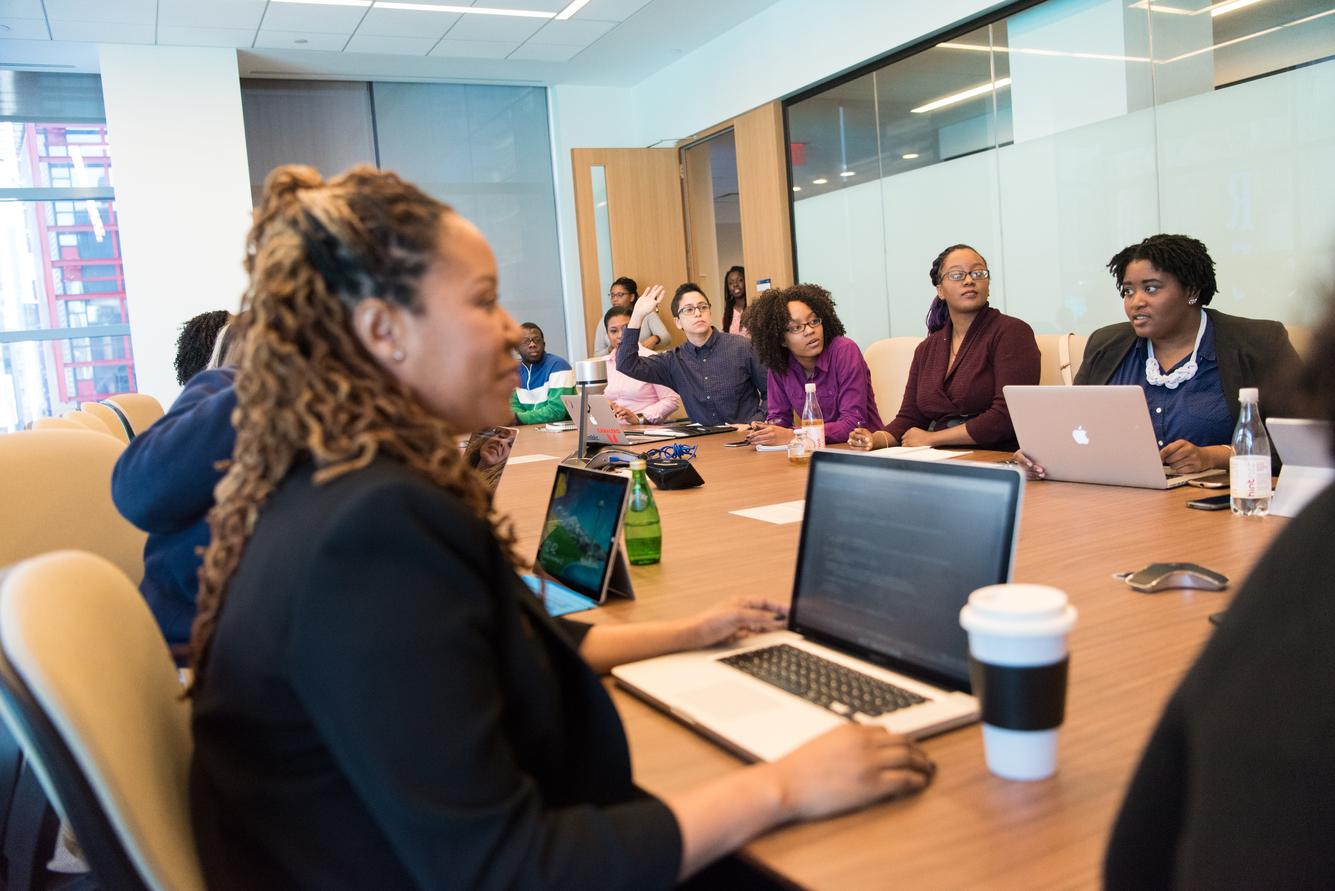
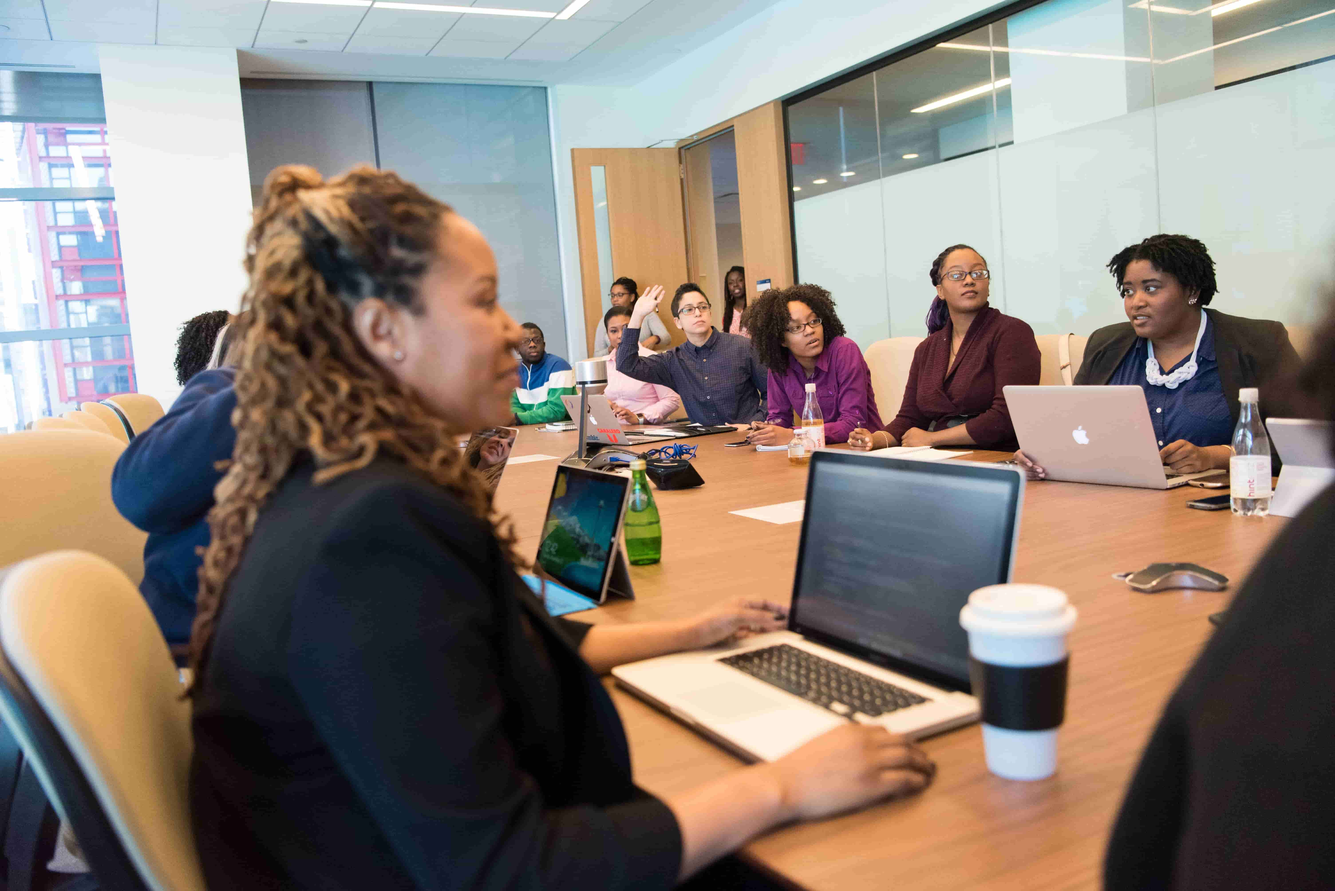
Add email + image compressions

diff --git a/content/post/2024-july-scratch-purge.md b/content/post/2024-july-scratch-purge.md
@@ -35,7 +35,36 @@ Please contact our <a href="/form/support-request/?category=Storage&request_titl
 
 {{% accordion-group title="Emails" id="emailgroup" %}}
 
-{{% accordion-item title="No Emails" id="email-3" %}}
+{{% accordion-item title="Reinstatement of purging policy for personal scratch files on Afton and Rivanna" id="email-3" %}}
+
+Dear HPC user,  
+
+On **Sep 1, 2024** RC system engineers will reinstate a file purging policy for personal /scratch folders on the Afton and Rivanna high-performance computing (HPC) systems. From Sep 1 forward, files that have not been accessed for over 90 days will be permanently deleted on a daily rolling basis. This is not a new policy; it is a reactivation of an established policy that follows general HPC best practices. 
+
+  
+The <code> /scratch</code> filesystem is intended as a temporary work directory. It is not backed up and old files must be removed periodically to maintain a stable HPC environment.  
+
+
+**How should I prepare?**   
+
+We encourage you, if you are using scratch, to identify and move important files to more persistent storage solutions on a regular basis. The FAQ [“How can I find out what files will be purged?”](#faq-4) provides instructions to identify the scratch files marked for deletion. RC offers several low-cost storage options to researchers, including 10TB of Research Standard storage for each eligible PI at no charge. For more detailed descriptions of our storage options, visit [https://www.rc.virginia.edu/userinfo/storage/].  
+
+  
+**What to expect on Sep 1, 2024?**
+
+Starting on Sep 1, 2024, a script will be launched on the Afton and Rivanna systems to monitor on a daily basis if scratch files have been accessed within the past 90 days. Last access times are determined as the last time a file was opened (read) or modified (written to). Scratch files that have not been accessed since Jun 3 (90 days before Sep 1) will be removed from the filesystem. The 90-day file purging window will move forward on a daily basis.   
+
+   
+If you have any questions about the file purging policy or process, you may [contact our user services team](/form/support-request).   
+     
+With regards,   
+
+  
+
+Karsten Siller  
+Director, Research Computing User Services  
+Information Technology Services  
+University of Virginia 
 
 {{% /accordion-item %}}
 
